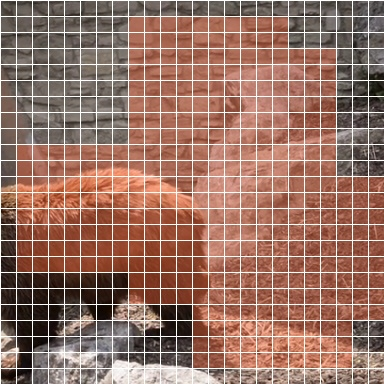
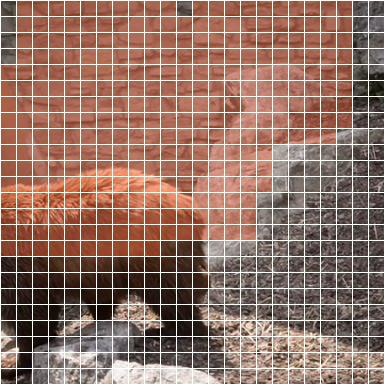
auto-sync: 2026-06-09 12:17:01 UTC

diff --git a/WAN_2p2/vjepa2-main/analysis_outputs/bear_training_flow/index.html b/WAN_2p2/vjepa2-main/analysis_outputs/bear_training_flow/index.html
@@ -86,6 +86,13 @@
       align-items: center;
       margin-top: 14px;
     }
+    .flow-line-4 {
+      display: grid;
+      grid-template-columns: repeat(4, minmax(180px, 1fr));
+      gap: 10px;
+      align-items: stretch;
+      margin-top: 14px;
+    }
     .flow-node {
       border-radius: 16px;
       padding: 14px;
@@ -143,6 +150,42 @@
       margin: 10px 0 0;
       background: #15202b;
       color: #f1f7fa;
+    }
+    .code-callout {
+      border: 1px solid var(--line);
+      border-radius: 14px;
+      padding: 14px;
+      background: linear-gradient(180deg, #fffdf8 0%, #f7efe6 100%);
+      margin-top: 12px;
+    }
+    .code-callout pre {
+      margin: 0;
+      background: #101923;
+    }
+    .detail-grid {
+      display: grid;
+      grid-template-columns: repeat(2, minmax(280px, 1fr));
+      gap: 14px;
+      margin-top: 14px;
+    }
+    .detail-card {
+      border: 1px solid var(--line);
+      border-radius: 14px;
+      padding: 14px;
+      background: rgba(255,255,255,0.72);
+    }
+    .detail-card h3 {
+      margin: 0 0 8px;
+    }
+    .detail-card .mono-row {
+      font-family: ui-monospace, SFMono-Regular, Menlo, monospace;
+      font-size: 13px;
+      color: var(--ink);
+      background: #f4ece3;
+      border-radius: 8px;
+      padding: 8px 10px;
+      margin: 8px 0;
+      word-break: break-word;
     }
     .video-grid {
       display: grid;
@@ -214,6 +257,71 @@
         <div class="flow-node"><strong>4. predictor + masks_pred</strong><div><code>[1, K_pred, 1408]</code></div><div>预测被遮住的 token。</div></div>
       </div>
       <p>loss 不是像素重建，而是把 predictor 输出的 masked latent，和 target_encoder 在同位置的 latent 做对齐。</p>
+    </section>
+
+    <section>
+      <h2>源码两行的细化流程</h2>
+      <div class="code-callout">
+        <pre>def forward_context(c):
+    z = encoder(c, masks_enc)
+    z = predictor(z, masks_enc, masks_pred)
+    return z</pre>
+      </div>
+      <p>这是 [`app/vjepa/train.py`](/home/gaoya/Code_Video/WAN_2p2/vjepa2-main/app/vjepa/train.py#L435) 里的原始训练代码。这里的 <code>encoder</code> 和 <code>predictor</code> 都带了 wrapper，因此真实输入输出首先是嵌套 list，然后才可以落到单个 mask 的简化 tensor shape。</p>
+
+      <div class="detail-grid">
+        <div class="detail-card">
+          <h3>第一行：<code>z = encoder(c, masks_enc)</code></h3>
+          <div class="mono-row">真实训练输入: c = list[Tensor[B, 3, 64, 384, 384]]</div>
+          <div class="mono-row">真实训练输入: masks_enc = list[list[Tensor[B, K_enc]]]</div>
+          <div class="mono-row">真实训练输出: z = list[list[Tensor[B, K_enc, 1408]]]</div>
+          <p>含义：每个 clip 先被切成完整 token 序列 <code>[B, 18432, 1408]</code>，再按 <code>masks_enc</code> 只保留可见 token。对于当前页面展示的 <code>mask_0</code>，单视频时简化成 <code>[1, 3, 64, 384, 384] -&gt; [1, 5824, 1408]</code>。</p>
+        </div>
+        <div class="detail-card">
+          <h3>第二行：<code>z = predictor(z, masks_enc, masks_pred)</code></h3>
+          <div class="mono-row">真实训练输入: z = list[list[Tensor[B, K_enc, 1408]]]</div>
+          <div class="mono-row">真实训练输入: masks_enc = list[list[Tensor[B, K_enc]]]</div>
+          <div class="mono-row">真实训练输入: masks_pred = list[list[Tensor[B, K_pred]]]</div>
+          <div class="mono-row">真实训练输出: z = list[list[Tensor[B, K_pred, 1408]]]</div>
+          <p>含义：predictor 知道可见 token 原来在什么位置，也知道哪些位置被遮住了要补出来。它会把 context token 映射到 predictor 维度，再造出对应数量的 mask token，占位后拼回完整序列，最后只返回 target 部分的预测结果。</p>
+        </div>
+      </div>
+
+      <div class="flow-line-4">
+        <div class="flow-node">
+          <strong>单个 mask 的 encoder 视角</strong>
+          <div><code>[1, 3, 64, 384, 384]</code></div>
+          <div>先 patch embed 成完整 <code>[1, 18432, 1408]</code>，再按 <code>masks_enc</code> 保留可见 token。</div>
+        </div>
+        <div class="flow-node">
+          <strong>encoder 输出</strong>
+          <div><code>[1, K_enc, 1408]</code></div>
+          <div>当前 <code>mask_0</code> 是 <code>K_enc=5824</code>。这就是 context token。</div>
+        </div>
+        <div class="flow-node">
+          <strong>predictor 内部拼接</strong>
+          <div><code>[1, K_enc, 384]</code> + <code>[1, K_pred, 384]</code></div>
+          <div>当前 <code>mask_0</code> 里 <code>K_pred=12608</code>，拼完会回到完整 token 数。</div>
+        </div>
+        <div class="flow-node">
+          <strong>predictor 输出</strong>
+          <div><code>[1, K_pred, 1408]</code></div>
+          <div>只返回被遮住位置的预测特征，随后与 target encoder 同位置特征做 loss。</div>
+        </div>
+      </div>
+
+      <div class="detail-grid">
+        <div class="detail-card">
+          <h3>为什么 predictor 知道要预测多少个 token</h3>
+          <p>不是从 <code>[1, 5824, 1408]</code> 这个 shape 猜出来的，而是直接从 <code>masks_pred</code> 得知。比如当前 <code>mask_0</code> 里，<code>masks_pred.shape = [1, 12608]</code>，所以 predictor 会生成 <code>12608</code> 个 mask token，占据这些目标位置。</p>
+        </div>
+        <div class="detail-card">
+          <h3>loss 比较的两边是什么</h3>
+          <div class="mono-row">predictor output = [1, K_pred, 1408]</div>
+          <div class="mono-row">target masked = [1, K_pred, 1408]</div>
+          <p>target encoder 先看完整 clip，得到 <code>[1, 18432, 1408]</code>，再按 <code>masks_pred</code> 取出同位置 token。训练时比较的是两个 latent 表征，不是比较像素。</p>
+        </div>
+      </div>
     </section>
 
     <section>
@@ -296,18 +404,18 @@ possible rectangle examples:
       
             <section class="mask-card">
               <h3>mask_0</h3>
-              <p>被预测 token: <code>11200</code>，可见 context token: <code>7232</code>，mask 比例: <code>60.76%</code></p>
+              <p>被预测 token: <code>9632</code>，可见 context token: <code>8800</code>，mask 比例: <code>52.26%</code></p>
               <div class="video-grid">
                 <div>
                   <video controls muted loop playsinline src="mask_overlays/mask_0_overlay.mp4"></video>
                 </div>
                 <div class="flow-box">
-                  <div><code>encoder(clips, masks_enc)</code> -> [1, 7232, 1408]</div>
-                  <div><code>predictor_embed(context)</code> -> [1, 7232, 384]</div>
-                  <div><code>mask tokens</code> -> [1, 11200, 384]</div>
+                  <div><code>encoder(clips, masks_enc)</code> -> [1, 8800, 1408]</div>
+                  <div><code>predictor_embed(context)</code> -> [1, 8800, 384]</div>
+                  <div><code>mask tokens</code> -> [1, 9632, 384]</div>
                   <div><code>concat + sort</code> -> [1, 18432, 384]</div>
-                  <div><code>predictor output</code> -> [1, 11200, 1408]</div>
-                  <div><code>target masked</code> -> [1, 11200, 1408]</div>
+                  <div><code>predictor output</code> -> [1, 9632, 1408]</div>
+                  <div><code>target masked</code> -> [1, 9632, 1408]</div>
                 </div>
               </div>
               <div class="thumb-grid"><figure><img src="mask_overlays/mask_0_frame_00_srcidx_000.jpg" alt="mask_0_frame_00_srcidx_000.jpg"><figcaption>mask_0_frame_00_srcidx_000.jpg</figcaption></figure><figure><img src="mask_overlays/mask_0_frame_21_srcidx_027.jpg" alt="mask_0_frame_21_srcidx_027.jpg"><figcaption>mask_0_frame_21_srcidx_027.jpg</figcaption></figure><figure><img src="mask_overlays/mask_0_frame_42_srcidx_054.jpg" alt="mask_0_frame_42_srcidx_054.jpg"><figcaption>mask_0_frame_42_srcidx_054.jpg</figcaption></figure><figure><img src="mask_overlays/mask_0_frame_63_srcidx_081.jpg" alt="mask_0_frame_63_srcidx_081.jpg"><figcaption>mask_0_frame_63_srcidx_081.jpg</figcaption></figure></div>
@@ -333,18 +441,18 @@ possible rectangle examples:
             
             <section class="mask-card">
               <h3>mask_1</h3>
-              <p>被预测 token: <code>16608</code>，可见 context token: <code>1824</code>，mask 比例: <code>90.10%</code></p>
+              <p>被预测 token: <code>13376</code>，可见 context token: <code>5056</code>，mask 比例: <code>72.57%</code></p>
               <div class="video-grid">
                 <div>
                   <video controls muted loop playsinline src="mask_overlays/mask_1_overlay.mp4"></video>
                 </div>
                 <div class="flow-box">
-                  <div><code>encoder(clips, masks_enc)</code> -> [1, 1824, 1408]</div>
-                  <div><code>predictor_embed(context)</code> -> [1, 1824, 384]</div>
-                  <div><code>mask tokens</code> -> [1, 16608, 384]</div>
+                  <div><code>encoder(clips, masks_enc)</code> -> [1, 5056, 1408]</div>
+                  <div><code>predictor_embed(context)</code> -> [1, 5056, 384]</div>
+                  <div><code>mask tokens</code> -> [1, 13376, 384]</div>
                   <div><code>concat + sort</code> -> [1, 18432, 384]</div>
-                  <div><code>predictor output</code> -> [1, 16608, 1408]</div>
-                  <div><code>target masked</code> -> [1, 16608, 1408]</div>
+                  <div><code>predictor output</code> -> [1, 13376, 1408]</div>
+                  <div><code>target masked</code> -> [1, 13376, 1408]</div>
                 </div>
               </div>
               <div class="thumb-grid"><figure><img src="mask_overlays/mask_1_frame_00_srcidx_000.jpg" alt="mask_1_frame_00_srcidx_000.jpg"><figcaption>mask_1_frame_00_srcidx_000.jpg</figcaption></figure><figure><img src="mask_overlays/mask_1_frame_21_srcidx_027.jpg" alt="mask_1_frame_21_srcidx_027.jpg"><figcaption>mask_1_frame_21_srcidx_027.jpg</figcaption></figure><figure><img src="mask_overlays/mask_1_frame_42_srcidx_054.jpg" alt="mask_1_frame_42_srcidx_054.jpg"><figcaption>mask_1_frame_42_srcidx_054.jpg</figcaption></figure><figure><img src="mask_overlays/mask_1_frame_63_srcidx_081.jpg" alt="mask_1_frame_63_srcidx_081.jpg"><figcaption>mask_1_frame_63_srcidx_081.jpg</figcaption></figure></div>

diff --git a/WAN_2p2/vjepa2-main/tools/visualize_vjepa2_training_flow.py b/WAN_2p2/vjepa2-main/tools/visualize_vjepa2_training_flow.py
@@ -410,6 +410,13 @@ def render_html(
       align-items: center;
       margin-top: 14px;
     }}
+    .flow-line-4 {{
+      display: grid;
+      grid-template-columns: repeat(4, minmax(180px, 1fr));
+      gap: 10px;
+      align-items: stretch;
+      margin-top: 14px;
+    }}
     .flow-node {{
       border-radius: 16px;
       padding: 14px;
@@ -467,6 +474,42 @@ def render_html(
       margin: 10px 0 0;
       background: #15202b;
       color: #f1f7fa;
+    }}
+    .code-callout {{
+      border: 1px solid var(--line);
+      border-radius: 14px;
+      padding: 14px;
+      background: linear-gradient(180deg, #fffdf8 0%, #f7efe6 100%);
+      margin-top: 12px;
+    }}
+    .code-callout pre {{
+      margin: 0;
+      background: #101923;
+    }}
+    .detail-grid {{
+      display: grid;
+      grid-template-columns: repeat(2, minmax(280px, 1fr));
+      gap: 14px;
+      margin-top: 14px;
+    }}
+    .detail-card {{
+      border: 1px solid var(--line);
+      border-radius: 14px;
+      padding: 14px;
+      background: rgba(255,255,255,0.72);
+    }}
+    .detail-card h3 {{
+      margin: 0 0 8px;
+    }}
+    .detail-card .mono-row {{
+      font-family: ui-monospace, SFMono-Regular, Menlo, monospace;
+      font-size: 13px;
+      color: var(--ink);
+      background: #f4ece3;
+      border-radius: 8px;
+      padding: 8px 10px;
+      margin: 8px 0;
+      word-break: break-word;
     }}
     .video-grid {{
       display: grid;
@@ -538,6 +581,71 @@ def render_html(
         <div class="flow-node"><strong>4. predictor + masks_pred</strong><div><code>[1, K_pred, 1408]</code></div><div>预测被遮住的 token。</div></div>
       </div>
       <p>loss 不是像素重建，而是把 predictor 输出的 masked latent，和 target_encoder 在同位置的 latent 做对齐。</p>
+    </section>
+
+    <section>
+      <h2>源码两行的细化流程</h2>
+      <div class="code-callout">
+        <pre>def forward_context(c):
+    z = encoder(c, masks_enc)
+    z = predictor(z, masks_enc, masks_pred)
+    return z</pre>
+      </div>
+      <p>这是 [`app/vjepa/train.py`](/home/gaoya/Code_Video/WAN_2p2/vjepa2-main/app/vjepa/train.py#L435) 里的原始训练代码。这里的 <code>encoder</code> 和 <code>predictor</code> 都带了 wrapper，因此真实输入输出首先是嵌套 list，然后才可以落到单个 mask 的简化 tensor shape。</p>
+
+      <div class="detail-grid">
+        <div class="detail-card">
+          <h3>第一行：<code>z = encoder(c, masks_enc)</code></h3>
+          <div class="mono-row">真实训练输入: c = list[Tensor[B, 3, 64, 384, 384]]</div>
+          <div class="mono-row">真实训练输入: masks_enc = list[list[Tensor[B, K_enc]]]</div>
+          <div class="mono-row">真实训练输出: z = list[list[Tensor[B, K_enc, 1408]]]</div>
+          <p>含义：每个 clip 先被切成完整 token 序列 <code>[B, 18432, 1408]</code>，再按 <code>masks_enc</code> 只保留可见 token。对于当前页面展示的 <code>mask_0</code>，单视频时简化成 <code>[1, 3, 64, 384, 384] -&gt; [1, 5824, 1408]</code>。</p>
+        </div>
+        <div class="detail-card">
+          <h3>第二行：<code>z = predictor(z, masks_enc, masks_pred)</code></h3>
+          <div class="mono-row">真实训练输入: z = list[list[Tensor[B, K_enc, 1408]]]</div>
+          <div class="mono-row">真实训练输入: masks_enc = list[list[Tensor[B, K_enc]]]</div>
+          <div class="mono-row">真实训练输入: masks_pred = list[list[Tensor[B, K_pred]]]</div>
+          <div class="mono-row">真实训练输出: z = list[list[Tensor[B, K_pred, 1408]]]</div>
+          <p>含义：predictor 知道可见 token 原来在什么位置，也知道哪些位置被遮住了要补出来。它会把 context token 映射到 predictor 维度，再造出对应数量的 mask token，占位后拼回完整序列，最后只返回 target 部分的预测结果。</p>
+        </div>
+      </div>
+
+      <div class="flow-line-4">
+        <div class="flow-node">
+          <strong>单个 mask 的 encoder 视角</strong>
+          <div><code>[1, 3, 64, 384, 384]</code></div>
+          <div>先 patch embed 成完整 <code>[1, 18432, 1408]</code>，再按 <code>masks_enc</code> 保留可见 token。</div>
+        </div>
+        <div class="flow-node">
+          <strong>encoder 输出</strong>
+          <div><code>[1, K_enc, 1408]</code></div>
+          <div>当前 <code>mask_0</code> 是 <code>K_enc=5824</code>。这就是 context token。</div>
+        </div>
+        <div class="flow-node">
+          <strong>predictor 内部拼接</strong>
+          <div><code>[1, K_enc, 384]</code> + <code>[1, K_pred, 384]</code></div>
+          <div>当前 <code>mask_0</code> 里 <code>K_pred=12608</code>，拼完会回到完整 token 数。</div>
+        </div>
+        <div class="flow-node">
+          <strong>predictor 输出</strong>
+          <div><code>[1, K_pred, 1408]</code></div>
+          <div>只返回被遮住位置的预测特征，随后与 target encoder 同位置特征做 loss。</div>
+        </div>
+      </div>
+
+      <div class="detail-grid">
+        <div class="detail-card">
+          <h3>为什么 predictor 知道要预测多少个 token</h3>
+          <p>不是从 <code>[1, 5824, 1408]</code> 这个 shape 猜出来的，而是直接从 <code>masks_pred</code> 得知。比如当前 <code>mask_0</code> 里，<code>masks_pred.shape = [1, 12608]</code>，所以 predictor 会生成 <code>12608</code> 个 mask token，占据这些目标位置。</p>
+        </div>
+        <div class="detail-card">
+          <h3>loss 比较的两边是什么</h3>
+          <div class="mono-row">predictor output = [1, K_pred, 1408]</div>
+          <div class="mono-row">target masked = [1, K_pred, 1408]</div>
+          <p>target encoder 先看完整 clip，得到 <code>[1, 18432, 1408]</code>，再按 <code>masks_pred</code> 取出同位置 token。训练时比较的是两个 latent 表征，不是比较像素。</p>
+        </div>
+      </div>
     </section>
 
     <section>
